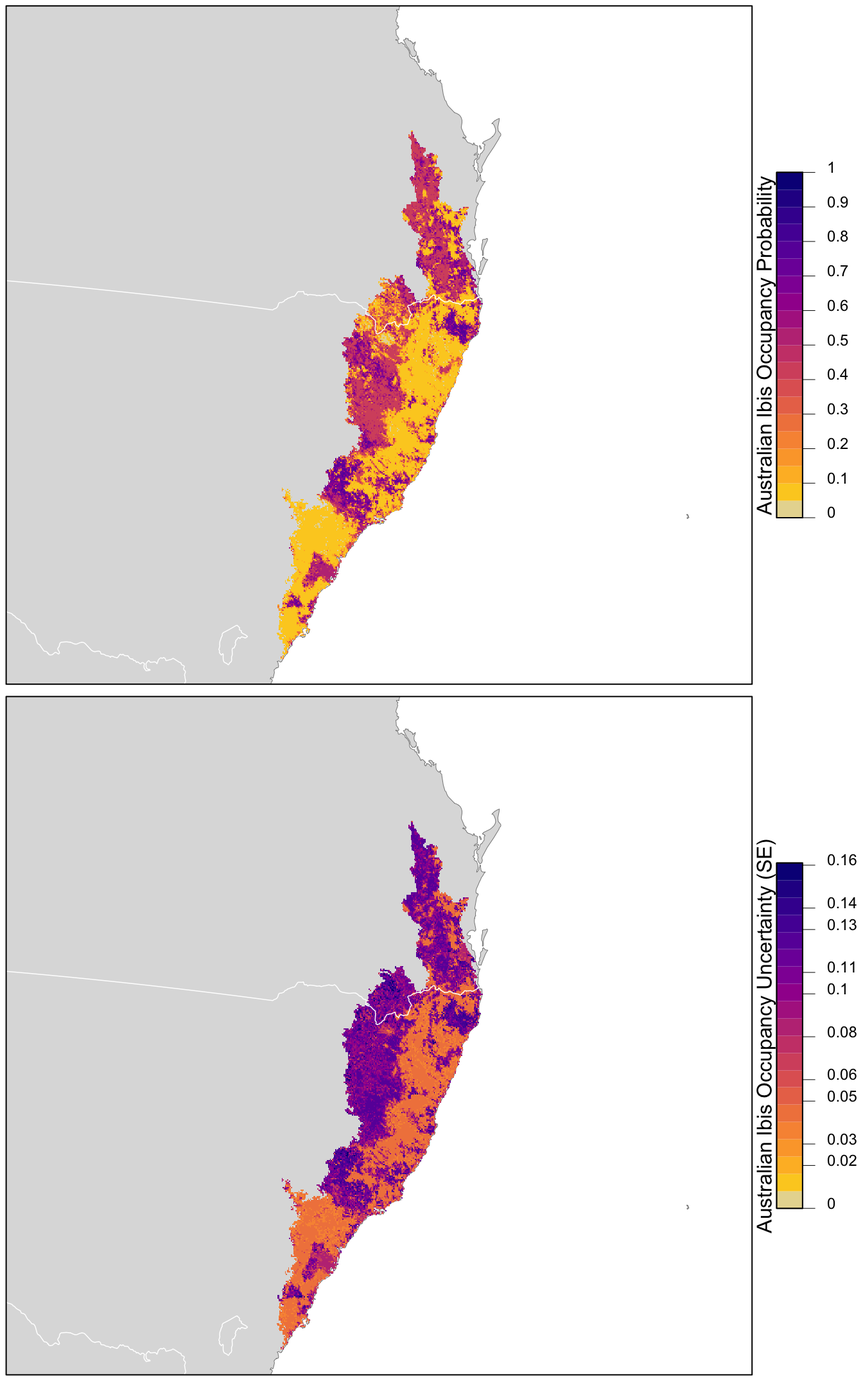
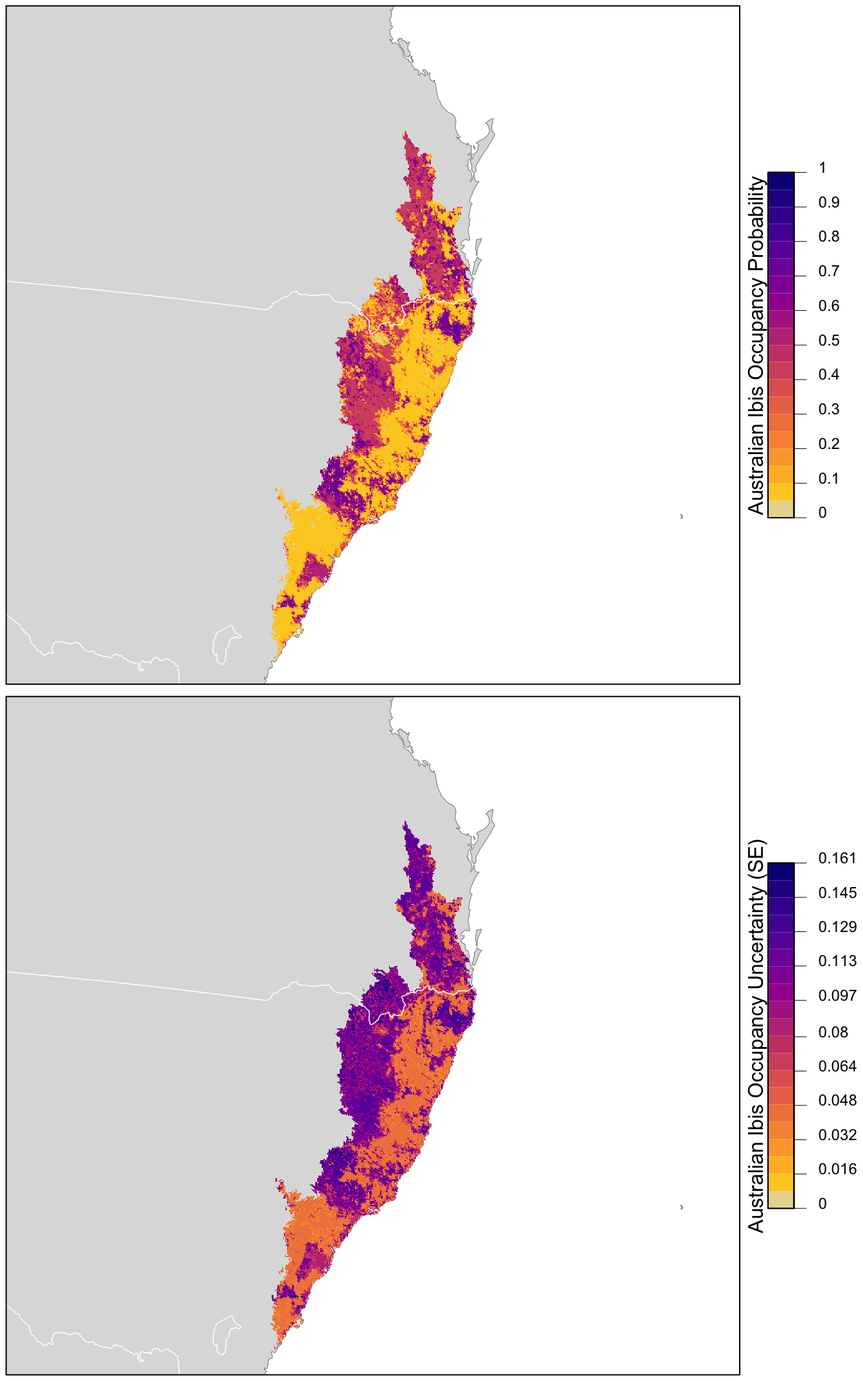
cleaning up maps

diff --git a/docs/abundance.html b/docs/abundance.html
@@ -24,7 +24,7 @@
 <meta name="author" content="Matthew Strimas-Mackey, Alison Johnston, Wesley M. Hochachka, Viviana Ruiz-Gutierrez, Orin J. Robinson, Eliot T. Miller, Tom Auer, Steve Kelling, Daniel Fink" />
 
 
-<meta name="date" content="2019-11-13" />
+<meta name="date" content="2019-11-14" />
 
   <meta name="viewport" content="width=device-width, initial-scale=1" />
   <meta name="apple-mobile-web-app-capable" content="yes" />
@@ -677,63 +677,64 @@ Exercise
 <a class="sourceLine" id="cb123-8" data-line-number="8"><span class="cf">for</span> (nm <span class="cf">in</span> <span class="kw">names</span>(r_pred)) {</a>
 <a class="sourceLine" id="cb123-9" data-line-number="9">  r_plot &lt;-<span class="st"> </span>r_pred_proj[[nm]]</a>
 <a class="sourceLine" id="cb123-10" data-line-number="10">  </a>
-<a class="sourceLine" id="cb123-11" data-line-number="11">  <span class="kw">par</span>(<span class="dt">mar =</span> <span class="kw">c</span>(<span class="fl">0.25</span>, <span class="fl">0.25</span>, <span class="fl">0.25</span>, <span class="fl">4.5</span>))</a>
+<a class="sourceLine" id="cb123-11" data-line-number="11">  <span class="kw">par</span>(<span class="dt">mar =</span> <span class="kw">c</span>(<span class="fl">0.25</span>, <span class="fl">0.25</span>, <span class="fl">0.25</span>, <span class="dv">5</span>))</a>
 <a class="sourceLine" id="cb123-12" data-line-number="12">  <span class="co"># set up plot area</span></a>
 <a class="sourceLine" id="cb123-13" data-line-number="13">  <span class="kw">plot</span>(cmz, <span class="dt">col =</span> <span class="ot">NA</span>, <span class="dt">border =</span> <span class="ot">NA</span>)</a>
 <a class="sourceLine" id="cb123-14" data-line-number="14">  <span class="kw">plot</span>(ne_land, <span class="dt">col =</span> <span class="st">&quot;#dddddd&quot;</span>, <span class="dt">border =</span> <span class="st">&quot;#888888&quot;</span>, <span class="dt">lwd =</span> <span class="fl">0.5</span>, <span class="dt">add =</span> <span class="ot">TRUE</span>)</a>
-<a class="sourceLine" id="cb123-15" data-line-number="15">  </a>
-<a class="sourceLine" id="cb123-16" data-line-number="16">  <span class="co"># modified plasma palette</span></a>
-<a class="sourceLine" id="cb123-17" data-line-number="17">  plasma_rev &lt;-<span class="st"> </span><span class="kw">rev</span>(<span class="kw">plasma</span>(<span class="dv">25</span>, <span class="dt">end =</span> <span class="fl">0.9</span>))</a>
-<a class="sourceLine" id="cb123-18" data-line-number="18">  gray_int &lt;-<span class="st"> </span><span class="kw">colorRampPalette</span>(<span class="kw">c</span>(<span class="st">&quot;#dddddd&quot;</span>, plasma_rev[<span class="dv">1</span>]))</a>
-<a class="sourceLine" id="cb123-19" data-line-number="19">  pal &lt;-<span class="st"> </span><span class="kw">c</span>(<span class="kw">gray_int</span>(<span class="dv">4</span>)[<span class="dv">2</span>], plasma_rev)</a>
-<a class="sourceLine" id="cb123-20" data-line-number="20">  </a>
-<a class="sourceLine" id="cb123-21" data-line-number="21">  <span class="co"># abundance vs. se</span></a>
-<a class="sourceLine" id="cb123-22" data-line-number="22">  <span class="cf">if</span> (nm <span class="op">==</span><span class="st"> &quot;abd&quot;</span>) {</a>
-<a class="sourceLine" id="cb123-23" data-line-number="23">    title &lt;-<span class="st"> &quot;Australian Ibis Relative Abundance&quot;</span></a>
-<a class="sourceLine" id="cb123-24" data-line-number="24">    <span class="co"># set very low values to zero</span></a>
-<a class="sourceLine" id="cb123-25" data-line-number="25">    r_plot[r_plot <span class="op">&lt;=</span><span class="st"> </span>zero_threshold] &lt;-<span class="st"> </span><span class="ot">NA</span></a>
-<a class="sourceLine" id="cb123-26" data-line-number="26">    <span class="co"># log transform</span></a>
-<a class="sourceLine" id="cb123-27" data-line-number="27">    r_plot &lt;-<span class="st"> </span><span class="kw">log10</span>(r_plot)</a>
-<a class="sourceLine" id="cb123-28" data-line-number="28">    <span class="co"># breaks and legend</span></a>
-<a class="sourceLine" id="cb123-29" data-line-number="29">    mx &lt;-<span class="st"> </span><span class="kw">ceiling</span>(<span class="dv">100</span> <span class="op">*</span><span class="st"> </span><span class="kw">cellStats</span>(r_plot, max)) <span class="op">/</span><span class="st"> </span><span class="dv">100</span></a>
-<a class="sourceLine" id="cb123-30" data-line-number="30">    mn &lt;-<span class="st"> </span><span class="kw">floor</span>(<span class="dv">100</span> <span class="op">*</span><span class="st"> </span><span class="kw">cellStats</span>(r_plot, min)) <span class="op">/</span><span class="st"> </span><span class="dv">100</span></a>
-<a class="sourceLine" id="cb123-31" data-line-number="31">    brks &lt;-<span class="st"> </span><span class="kw">seq</span>(mn, mx, <span class="dt">length.out =</span> <span class="kw">length</span>(pal) <span class="op">+</span><span class="st"> </span><span class="dv">1</span>)</a>
-<a class="sourceLine" id="cb123-32" data-line-number="32">    lbl_brks &lt;-<span class="st"> </span><span class="kw">sort</span>(<span class="kw">c</span>(<span class="op">-</span><span class="dv">2</span><span class="op">:</span><span class="dv">2</span>, mn, mx))</a>
-<a class="sourceLine" id="cb123-33" data-line-number="33">    lbls &lt;-<span class="st"> </span><span class="kw">round</span>(<span class="dv">10</span><span class="op">^</span>lbl_brks, <span class="dv">2</span>)</a>
-<a class="sourceLine" id="cb123-34" data-line-number="34">  } <span class="cf">else</span> {</a>
-<a class="sourceLine" id="cb123-35" data-line-number="35">    title &lt;-<span class="st"> &quot;Australian Ibis Abundance Uncertainty (SE)&quot;</span></a>
-<a class="sourceLine" id="cb123-36" data-line-number="36">    <span class="co"># breaks and legend</span></a>
-<a class="sourceLine" id="cb123-37" data-line-number="37">    mx &lt;-<span class="st"> </span><span class="kw">ceiling</span>(<span class="dv">1000</span> <span class="op">*</span><span class="st"> </span><span class="kw">cellStats</span>(r_plot, max)) <span class="op">/</span><span class="st"> </span><span class="dv">1000</span></a>
-<a class="sourceLine" id="cb123-38" data-line-number="38">    mn &lt;-<span class="st"> </span><span class="kw">floor</span>(<span class="dv">1000</span> <span class="op">*</span><span class="st"> </span><span class="kw">cellStats</span>(r_plot, min)) <span class="op">/</span><span class="st"> </span><span class="dv">1000</span></a>
-<a class="sourceLine" id="cb123-39" data-line-number="39">    brks &lt;-<span class="st"> </span><span class="kw">seq</span>(mn, mx, <span class="dt">length.out =</span> <span class="kw">length</span>(pal) <span class="op">+</span><span class="st"> </span><span class="dv">1</span>)</a>
-<a class="sourceLine" id="cb123-40" data-line-number="40">    lbl_brks &lt;-<span class="st"> </span><span class="kw">seq</span>(mn, mx, <span class="dt">length.out =</span> <span class="dv">5</span>)</a>
-<a class="sourceLine" id="cb123-41" data-line-number="41">    lbls &lt;-<span class="st"> </span><span class="kw">round</span>(lbl_brks, <span class="dv">2</span>)</a>
-<a class="sourceLine" id="cb123-42" data-line-number="42">  }</a>
-<a class="sourceLine" id="cb123-43" data-line-number="43">  </a>
-<a class="sourceLine" id="cb123-44" data-line-number="44">  <span class="co"># abundance</span></a>
-<a class="sourceLine" id="cb123-45" data-line-number="45">  <span class="kw">plot</span>(r_plot, </a>
-<a class="sourceLine" id="cb123-46" data-line-number="46">       <span class="dt">col =</span> pal, <span class="dt">breaks =</span> brks, </a>
-<a class="sourceLine" id="cb123-47" data-line-number="47">       <span class="dt">maxpixels =</span> <span class="kw">ncell</span>(r_plot),</a>
-<a class="sourceLine" id="cb123-48" data-line-number="48">       <span class="dt">legend =</span> <span class="ot">FALSE</span>, <span class="dt">add =</span> <span class="ot">TRUE</span>)</a>
-<a class="sourceLine" id="cb123-49" data-line-number="49">  </a>
-<a class="sourceLine" id="cb123-50" data-line-number="50">  <span class="co"># borders</span></a>
-<a class="sourceLine" id="cb123-51" data-line-number="51">  <span class="kw">plot</span>(ne_state_lines, <span class="dt">col =</span> <span class="st">&quot;#ffffff&quot;</span>, <span class="dt">lwd =</span> <span class="fl">0.75</span>, <span class="dt">add =</span> <span class="ot">TRUE</span>)</a>
-<a class="sourceLine" id="cb123-52" data-line-number="52">  <span class="kw">box</span>()</a>
-<a class="sourceLine" id="cb123-53" data-line-number="53">  </a>
-<a class="sourceLine" id="cb123-54" data-line-number="54">  <span class="co"># legend</span></a>
-<a class="sourceLine" id="cb123-55" data-line-number="55">  <span class="kw">par</span>(<span class="dt">new =</span> <span class="ot">TRUE</span>, <span class="dt">mar =</span> <span class="kw">c</span>(<span class="dv">0</span>, <span class="dv">0</span>, <span class="dv">0</span>, <span class="dv">0</span>))</a>
-<a class="sourceLine" id="cb123-56" data-line-number="56">  <span class="kw">image.plot</span>(<span class="dt">zlim =</span> <span class="kw">range</span>(brks), <span class="dt">legend.only =</span> <span class="ot">TRUE</span>, <span class="dt">col =</span> pal,</a>
-<a class="sourceLine" id="cb123-57" data-line-number="57">             <span class="dt">smallplot =</span> <span class="kw">c</span>(<span class="fl">0.90</span>, <span class="fl">0.93</span>, <span class="fl">0.25</span>, <span class="fl">0.75</span>),</a>
-<a class="sourceLine" id="cb123-58" data-line-number="58">             <span class="dt">horizontal =</span> <span class="ot">FALSE</span>,</a>
-<a class="sourceLine" id="cb123-59" data-line-number="59">             <span class="dt">axis.args =</span> <span class="kw">list</span>(<span class="dt">at =</span> lbl_brks, </a>
-<a class="sourceLine" id="cb123-60" data-line-number="60">                              <span class="dt">labels =</span> lbls,</a>
-<a class="sourceLine" id="cb123-61" data-line-number="61">                              <span class="dt">fg =</span> <span class="st">&quot;black&quot;</span>, <span class="dt">col.axis =</span> <span class="st">&quot;black&quot;</span>,</a>
-<a class="sourceLine" id="cb123-62" data-line-number="62">                              <span class="dt">cex.axis =</span> <span class="fl">0.75</span>, <span class="dt">lwd.ticks =</span> <span class="fl">0.5</span>,</a>
-<a class="sourceLine" id="cb123-63" data-line-number="63">                              <span class="dt">padj =</span> <span class="dv">0</span>),</a>
-<a class="sourceLine" id="cb123-64" data-line-number="64">             <span class="dt">legend.args =</span> <span class="kw">list</span>(<span class="dt">text =</span> title,</a>
-<a class="sourceLine" id="cb123-65" data-line-number="65">                                <span class="dt">side =</span> <span class="dv">2</span>, <span class="dt">col =</span> <span class="st">&quot;black&quot;</span>,</a>
-<a class="sourceLine" id="cb123-66" data-line-number="66">                                <span class="dt">cex =</span> <span class="dv">1</span>, <span class="dt">line =</span> <span class="dv">0</span>))</a>
-<a class="sourceLine" id="cb123-67" data-line-number="67">}</a></code></pre></div>
+<a class="sourceLine" id="cb123-15" data-line-number="15">  <span class="kw">plot</span>(cmz, <span class="dt">col =</span> <span class="st">&quot;#888888&quot;</span>, <span class="dt">border =</span> <span class="ot">NA</span>, <span class="dt">add =</span> <span class="ot">TRUE</span>)</a>
+<a class="sourceLine" id="cb123-16" data-line-number="16">  </a>
+<a class="sourceLine" id="cb123-17" data-line-number="17">  <span class="co"># modified plasma palette</span></a>
+<a class="sourceLine" id="cb123-18" data-line-number="18">  plasma_rev &lt;-<span class="st"> </span><span class="kw">rev</span>(<span class="kw">plasma</span>(<span class="dv">25</span>, <span class="dt">end =</span> <span class="fl">0.9</span>))</a>
+<a class="sourceLine" id="cb123-19" data-line-number="19">  gray_int &lt;-<span class="st"> </span><span class="kw">colorRampPalette</span>(<span class="kw">c</span>(<span class="st">&quot;#dddddd&quot;</span>, plasma_rev[<span class="dv">1</span>]))</a>
+<a class="sourceLine" id="cb123-20" data-line-number="20">  pal &lt;-<span class="st"> </span><span class="kw">c</span>(<span class="kw">gray_int</span>(<span class="dv">4</span>)[<span class="dv">2</span>], plasma_rev)</a>
+<a class="sourceLine" id="cb123-21" data-line-number="21">  </a>
+<a class="sourceLine" id="cb123-22" data-line-number="22">  <span class="co"># abundance vs. se</span></a>
+<a class="sourceLine" id="cb123-23" data-line-number="23">  <span class="cf">if</span> (nm <span class="op">==</span><span class="st"> &quot;abd&quot;</span>) {</a>
+<a class="sourceLine" id="cb123-24" data-line-number="24">    title &lt;-<span class="st"> &quot;Australian Ibis Relative Abundance&quot;</span></a>
+<a class="sourceLine" id="cb123-25" data-line-number="25">    <span class="co"># set very low values to zero</span></a>
+<a class="sourceLine" id="cb123-26" data-line-number="26">    r_plot[r_plot <span class="op">&lt;=</span><span class="st"> </span>zero_threshold] &lt;-<span class="st"> </span><span class="ot">NA</span></a>
+<a class="sourceLine" id="cb123-27" data-line-number="27">    <span class="co"># log transform</span></a>
+<a class="sourceLine" id="cb123-28" data-line-number="28">    r_plot &lt;-<span class="st"> </span><span class="kw">log10</span>(r_plot)</a>
+<a class="sourceLine" id="cb123-29" data-line-number="29">    <span class="co"># breaks and legend</span></a>
+<a class="sourceLine" id="cb123-30" data-line-number="30">    mx &lt;-<span class="st"> </span><span class="kw">cellStats</span>(r_plot, max)</a>
+<a class="sourceLine" id="cb123-31" data-line-number="31">    mn &lt;-<span class="st"> </span><span class="kw">cellStats</span>(r_plot, min)</a>
+<a class="sourceLine" id="cb123-32" data-line-number="32">    brks &lt;-<span class="st"> </span><span class="kw">seq</span>(mn, mx, <span class="dt">length.out =</span> <span class="kw">length</span>(pal) <span class="op">+</span><span class="st"> </span><span class="dv">1</span>)</a>
+<a class="sourceLine" id="cb123-33" data-line-number="33">    lbl_brks &lt;-<span class="st"> </span><span class="kw">c</span>(mn, (mn <span class="op">+</span><span class="st"> </span>mx) <span class="op">/</span><span class="st"> </span><span class="dv">2</span>, mx)</a>
+<a class="sourceLine" id="cb123-34" data-line-number="34">    lbls &lt;-<span class="st"> </span><span class="kw">round</span>(<span class="dv">10</span><span class="op">^</span>lbl_brks, <span class="dv">3</span>)</a>
+<a class="sourceLine" id="cb123-35" data-line-number="35">  } <span class="cf">else</span> {</a>
+<a class="sourceLine" id="cb123-36" data-line-number="36">    title &lt;-<span class="st"> &quot;Australian Ibis Abundance Uncertainty (SE)&quot;</span></a>
+<a class="sourceLine" id="cb123-37" data-line-number="37">    <span class="co"># breaks and legend</span></a>
+<a class="sourceLine" id="cb123-38" data-line-number="38">    mx &lt;-<span class="st"> </span><span class="kw">ceiling</span>(<span class="dv">1000</span> <span class="op">*</span><span class="st"> </span><span class="kw">cellStats</span>(r_plot, max)) <span class="op">/</span><span class="st"> </span><span class="dv">1000</span></a>
+<a class="sourceLine" id="cb123-39" data-line-number="39">    mn &lt;-<span class="st"> </span><span class="kw">floor</span>(<span class="dv">1000</span> <span class="op">*</span><span class="st"> </span><span class="kw">cellStats</span>(r_plot, min)) <span class="op">/</span><span class="st"> </span><span class="dv">1000</span></a>
+<a class="sourceLine" id="cb123-40" data-line-number="40">    brks &lt;-<span class="st"> </span><span class="kw">seq</span>(mn, mx, <span class="dt">length.out =</span> <span class="kw">length</span>(pal) <span class="op">+</span><span class="st"> </span><span class="dv">1</span>)</a>
+<a class="sourceLine" id="cb123-41" data-line-number="41">    lbl_brks &lt;-<span class="st"> </span><span class="kw">seq</span>(mn, mx, <span class="dt">length.out =</span> <span class="dv">5</span>)</a>
+<a class="sourceLine" id="cb123-42" data-line-number="42">    lbls &lt;-<span class="st"> </span><span class="kw">round</span>(lbl_brks, <span class="dv">2</span>)</a>
+<a class="sourceLine" id="cb123-43" data-line-number="43">  }</a>
+<a class="sourceLine" id="cb123-44" data-line-number="44">  </a>
+<a class="sourceLine" id="cb123-45" data-line-number="45">  <span class="co"># abundance</span></a>
+<a class="sourceLine" id="cb123-46" data-line-number="46">  <span class="kw">plot</span>(r_plot, </a>
+<a class="sourceLine" id="cb123-47" data-line-number="47">       <span class="dt">col =</span> pal, <span class="dt">breaks =</span> brks, </a>
+<a class="sourceLine" id="cb123-48" data-line-number="48">       <span class="dt">maxpixels =</span> <span class="kw">ncell</span>(r_plot),</a>
+<a class="sourceLine" id="cb123-49" data-line-number="49">       <span class="dt">legend =</span> <span class="ot">FALSE</span>, <span class="dt">add =</span> <span class="ot">TRUE</span>)</a>
+<a class="sourceLine" id="cb123-50" data-line-number="50">  </a>
+<a class="sourceLine" id="cb123-51" data-line-number="51">  <span class="co"># borders</span></a>
+<a class="sourceLine" id="cb123-52" data-line-number="52">  <span class="kw">plot</span>(ne_state_lines, <span class="dt">col =</span> <span class="st">&quot;#ffffff&quot;</span>, <span class="dt">lwd =</span> <span class="fl">0.75</span>, <span class="dt">add =</span> <span class="ot">TRUE</span>)</a>
+<a class="sourceLine" id="cb123-53" data-line-number="53">  <span class="kw">box</span>()</a>
+<a class="sourceLine" id="cb123-54" data-line-number="54">  </a>
+<a class="sourceLine" id="cb123-55" data-line-number="55">  <span class="co"># legend</span></a>
+<a class="sourceLine" id="cb123-56" data-line-number="56">  <span class="kw">par</span>(<span class="dt">new =</span> <span class="ot">TRUE</span>, <span class="dt">mar =</span> <span class="kw">c</span>(<span class="dv">0</span>, <span class="dv">0</span>, <span class="dv">0</span>, <span class="dv">0</span>))</a>
+<a class="sourceLine" id="cb123-57" data-line-number="57">  <span class="kw">image.plot</span>(<span class="dt">zlim =</span> <span class="kw">range</span>(brks), <span class="dt">legend.only =</span> <span class="ot">TRUE</span>, <span class="dt">col =</span> pal,</a>
+<a class="sourceLine" id="cb123-58" data-line-number="58">             <span class="dt">smallplot =</span> <span class="kw">c</span>(<span class="fl">0.89</span>, <span class="fl">0.92</span>, <span class="fl">0.25</span>, <span class="fl">0.75</span>),</a>
+<a class="sourceLine" id="cb123-59" data-line-number="59">             <span class="dt">horizontal =</span> <span class="ot">FALSE</span>,</a>
+<a class="sourceLine" id="cb123-60" data-line-number="60">             <span class="dt">axis.args =</span> <span class="kw">list</span>(<span class="dt">at =</span> lbl_brks, </a>
+<a class="sourceLine" id="cb123-61" data-line-number="61">                              <span class="dt">labels =</span> lbls,</a>
+<a class="sourceLine" id="cb123-62" data-line-number="62">                              <span class="dt">fg =</span> <span class="st">&quot;black&quot;</span>, <span class="dt">col.axis =</span> <span class="st">&quot;black&quot;</span>,</a>
+<a class="sourceLine" id="cb123-63" data-line-number="63">                              <span class="dt">cex.axis =</span> <span class="fl">0.75</span>, <span class="dt">lwd.ticks =</span> <span class="fl">0.5</span>,</a>
+<a class="sourceLine" id="cb123-64" data-line-number="64">                              <span class="dt">padj =</span> <span class="dv">0</span>),</a>
+<a class="sourceLine" id="cb123-65" data-line-number="65">             <span class="dt">legend.args =</span> <span class="kw">list</span>(<span class="dt">text =</span> title,</a>
+<a class="sourceLine" id="cb123-66" data-line-number="66">                                <span class="dt">side =</span> <span class="dv">2</span>, <span class="dt">col =</span> <span class="st">&quot;black&quot;</span>,</a>
+<a class="sourceLine" id="cb123-67" data-line-number="67">                                <span class="dt">cex =</span> <span class="dv">1</span>, <span class="dt">line =</span> <span class="dv">0</span>))</a>
+<a class="sourceLine" id="cb123-68" data-line-number="68">}</a></code></pre></div>
 <p><img src="ebp-workshop-au_files/figure-html/abundance-predict-map-1.png" width="\textwidth" style="display: block; margin: auto;" /></p>
 </div>
 <div id="abundance-exercises" class="section level2">

diff --git a/docs/occupancy.html b/docs/occupancy.html
@@ -24,7 +24,7 @@
 <meta name="author" content="Matthew Strimas-Mackey, Alison Johnston, Wesley M. Hochachka, Viviana Ruiz-Gutierrez, Orin J. Robinson, Eliot T. Miller, Tom Auer, Steve Kelling, Daniel Fink" />
 
 
-<meta name="date" content="2019-11-13" />
+<meta name="date" content="2019-11-14" />
 
   <meta name="viewport" content="width=device-width, initial-scale=1" />
   <meta name="apple-mobile-web-app-capable" content="yes" />
@@ -466,7 +466,7 @@ Checkpoint
 <a class="sourceLine" id="cb98-5" data-line-number="5"><span class="cf">for</span> (nm <span class="cf">in</span> <span class="kw">names</span>(r_pred)) {</a>
 <a class="sourceLine" id="cb98-6" data-line-number="6">  r_plot &lt;-<span class="st"> </span>r_pred_proj[[nm]]</a>
 <a class="sourceLine" id="cb98-7" data-line-number="7">  </a>
-<a class="sourceLine" id="cb98-8" data-line-number="8">  <span class="kw">par</span>(<span class="dt">mar =</span> <span class="kw">c</span>(<span class="fl">0.25</span>, <span class="fl">0.25</span>, <span class="fl">0.25</span>, <span class="fl">4.5</span>))</a>
+<a class="sourceLine" id="cb98-8" data-line-number="8">  <span class="kw">par</span>(<span class="dt">mar =</span> <span class="kw">c</span>(<span class="fl">0.25</span>, <span class="fl">0.25</span>, <span class="fl">0.25</span>, <span class="dv">5</span>))</a>
 <a class="sourceLine" id="cb98-9" data-line-number="9">  <span class="co"># set up plot area</span></a>
 <a class="sourceLine" id="cb98-10" data-line-number="10">  <span class="kw">plot</span>(cmz, <span class="dt">col =</span> <span class="ot">NA</span>, <span class="dt">border =</span> <span class="ot">NA</span>)</a>
 <a class="sourceLine" id="cb98-11" data-line-number="11">  <span class="kw">plot</span>(ne_land, <span class="dt">col =</span> <span class="st">&quot;#dddddd&quot;</span>, <span class="dt">border =</span> <span class="st">&quot;#888888&quot;</span>, <span class="dt">lwd =</span> <span class="fl">0.5</span>, <span class="dt">add =</span> <span class="ot">TRUE</span>)</a>
@@ -482,7 +482,7 @@ Checkpoint
 <a class="sourceLine" id="cb98-21" data-line-number="21">    mx &lt;-<span class="st"> </span><span class="kw">ceiling</span>(<span class="dv">1000</span> <span class="op">*</span><span class="st"> </span><span class="kw">cellStats</span>(r_plot, max)) <span class="op">/</span><span class="st"> </span><span class="dv">1000</span></a>
 <a class="sourceLine" id="cb98-22" data-line-number="22">    brks &lt;-<span class="st"> </span><span class="kw">seq</span>(<span class="dv">0</span>, mx, <span class="dt">length.out =</span> <span class="dv">21</span>)</a>
 <a class="sourceLine" id="cb98-23" data-line-number="23">    lbl_brks &lt;-<span class="st"> </span><span class="kw">seq</span>(<span class="dv">0</span>, mx, <span class="dt">length.out =</span> <span class="dv">11</span>) <span class="op">%&gt;%</span><span class="st"> </span></a>
-<a class="sourceLine" id="cb98-24" data-line-number="24"><span class="st">      </span><span class="kw">round</span>(<span class="dv">2</span>)</a>
+<a class="sourceLine" id="cb98-24" data-line-number="24"><span class="st">      </span><span class="kw">round</span>(<span class="dv">3</span>)</a>
 <a class="sourceLine" id="cb98-25" data-line-number="25">  }</a>
 <a class="sourceLine" id="cb98-26" data-line-number="26">  pal &lt;-<span class="st"> </span><span class="kw">abundance_palette</span>(<span class="kw">length</span>(brks) <span class="op">-</span><span class="st"> </span><span class="dv">1</span>)</a>
 <a class="sourceLine" id="cb98-27" data-line-number="27">  <span class="kw">plot</span>(r_plot, </a>
@@ -498,7 +498,7 @@ Checkpoint
 <a class="sourceLine" id="cb98-37" data-line-number="37">  <span class="kw">par</span>(<span class="dt">new =</span> <span class="ot">TRUE</span>, <span class="dt">mar =</span> <span class="kw">c</span>(<span class="dv">0</span>, <span class="dv">0</span>, <span class="dv">0</span>, <span class="dv">0</span>))</a>
 <a class="sourceLine" id="cb98-38" data-line-number="38">  <span class="kw">image.plot</span>(<span class="dt">zlim =</span> <span class="kw">range</span>(brks), <span class="dt">legend.only =</span> <span class="ot">TRUE</span>, </a>
 <a class="sourceLine" id="cb98-39" data-line-number="39">             <span class="dt">breaks =</span> brks, <span class="dt">col =</span> pal,</a>
-<a class="sourceLine" id="cb98-40" data-line-number="40">             <span class="dt">smallplot =</span> <span class="kw">c</span>(<span class="fl">0.90</span>, <span class="fl">0.93</span>, <span class="fl">0.25</span>, <span class="fl">0.75</span>),</a>
+<a class="sourceLine" id="cb98-40" data-line-number="40">             <span class="dt">smallplot =</span> <span class="kw">c</span>(<span class="fl">0.89</span>, <span class="fl">0.92</span>, <span class="fl">0.25</span>, <span class="fl">0.75</span>),</a>
 <a class="sourceLine" id="cb98-41" data-line-number="41">             <span class="dt">horizontal =</span> <span class="ot">FALSE</span>,</a>
 <a class="sourceLine" id="cb98-42" data-line-number="42">             <span class="dt">axis.args =</span> <span class="kw">list</span>(<span class="dt">at =</span> lbl_brks, <span class="dt">labels =</span> lbl_brks,</a>
 <a class="sourceLine" id="cb98-43" data-line-number="43">                              <span class="dt">fg =</span> <span class="st">&quot;black&quot;</span>, <span class="dt">col.axis =</span> <span class="st">&quot;black&quot;</span>,</a>

diff --git a/docs/index.html b/docs/index.html
@@ -24,7 +24,7 @@
 <meta name="author" content="Matthew Strimas-Mackey, Alison Johnston, Wesley M. Hochachka, Viviana Ruiz-Gutierrez, Orin J. Robinson, Eliot T. Miller, Tom Auer, Steve Kelling, Daniel Fink" />
 
 
-<meta name="date" content="2019-11-13" />
+<meta name="date" content="2019-11-14" />
 
   <meta name="viewport" content="width=device-width, initial-scale=1" />
   <meta name="apple-mobile-web-app-capable" content="yes" />
@@ -235,7 +235,7 @@ code span.wa { color: #60a0b0; font-weight: bold; font-style: italic; } /* Warni
 <div id="header">
 <h1 class="title">eBird Best Practices Workshop</h1>
 <p class="author"><em>Matthew Strimas-Mackey, Alison Johnston, Wesley M. Hochachka, Viviana Ruiz-Gutierrez, Orin J. Robinson, Eliot T. Miller, Tom Auer, Steve Kelling, Daniel Fink</em></p>
-<p class="date"><em>2019-11-13</em></p>
+<p class="date"><em>2019-11-14</em></p>
 </div>
 <div id="welcome" class="section level1 unnumbered">
 <h1>Welcome</h1>

diff --git a/docs/access.html b/docs/access.html
@@ -24,7 +24,7 @@
 <meta name="author" content="Matthew Strimas-Mackey, Alison Johnston, Wesley M. Hochachka, Viviana Ruiz-Gutierrez, Orin J. Robinson, Eliot T. Miller, Tom Auer, Steve Kelling, Daniel Fink" />
 
 
-<meta name="date" content="2019-11-13" />
+<meta name="date" content="2019-11-14" />
 
   <meta name="viewport" content="width=device-width, initial-scale=1" />
   <meta name="apple-mobile-web-app-capable" content="yes" />

diff --git a/docs/advanced.html b/docs/advanced.html
@@ -24,7 +24,7 @@
 <meta name="author" content="Matthew Strimas-Mackey, Alison Johnston, Wesley M. Hochachka, Viviana Ruiz-Gutierrez, Orin J. Robinson, Eliot T. Miller, Tom Auer, Steve Kelling, Daniel Fink" />
 
 
-<meta name="date" content="2019-11-13" />
+<meta name="date" content="2019-11-14" />
 
   <meta name="viewport" content="width=device-width, initial-scale=1" />
   <meta name="apple-mobile-web-app-capable" content="yes" />

diff --git a/docs/applications.html b/docs/applications.html
@@ -24,7 +24,7 @@
 <meta name="author" content="Matthew Strimas-Mackey, Alison Johnston, Wesley M. Hochachka, Viviana Ruiz-Gutierrez, Orin J. Robinson, Eliot T. Miller, Tom Auer, Steve Kelling, Daniel Fink" />
 
 
-<meta name="date" content="2019-11-13" />
+<meta name="date" content="2019-11-14" />
 
   <meta name="viewport" content="width=device-width, initial-scale=1" />
   <meta name="apple-mobile-web-app-capable" content="yes" />

diff --git a/docs/ebird-intro.html b/docs/ebird-intro.html
@@ -24,7 +24,7 @@
 <meta name="author" content="Matthew Strimas-Mackey, Alison Johnston, Wesley M. Hochachka, Viviana Ruiz-Gutierrez, Orin J. Robinson, Eliot T. Miller, Tom Auer, Steve Kelling, Daniel Fink" />
 
 
-<meta name="date" content="2019-11-13" />
+<meta name="date" content="2019-11-14" />
 
   <meta name="viewport" content="width=device-width, initial-scale=1" />
   <meta name="apple-mobile-web-app-capable" content="yes" />

diff --git a/docs/encounter.html b/docs/encounter.html
@@ -24,7 +24,7 @@
 <meta name="author" content="Matthew Strimas-Mackey, Alison Johnston, Wesley M. Hochachka, Viviana Ruiz-Gutierrez, Orin J. Robinson, Eliot T. Miller, Tom Auer, Steve Kelling, Daniel Fink" />
 
 
-<meta name="date" content="2019-11-13" />
+<meta name="date" content="2019-11-14" />
 
   <meta name="viewport" content="width=device-width, initial-scale=1" />
   <meta name="apple-mobile-web-app-capable" content="yes" />

diff --git a/docs/filter.html b/docs/filter.html
@@ -24,7 +24,7 @@
 <meta name="author" content="Matthew Strimas-Mackey, Alison Johnston, Wesley M. Hochachka, Viviana Ruiz-Gutierrez, Orin J. Robinson, Eliot T. Miller, Tom Auer, Steve Kelling, Daniel Fink" />
 
 
-<meta name="date" content="2019-11-13" />
+<meta name="date" content="2019-11-14" />
 
   <meta name="viewport" content="width=device-width, initial-scale=1" />
   <meta name="apple-mobile-web-app-capable" content="yes" />

diff --git a/docs/import.html b/docs/import.html
@@ -24,7 +24,7 @@
 <meta name="author" content="Matthew Strimas-Mackey, Alison Johnston, Wesley M. Hochachka, Viviana Ruiz-Gutierrez, Orin J. Robinson, Eliot T. Miller, Tom Auer, Steve Kelling, Daniel Fink" />
 
 
-<meta name="date" content="2019-11-13" />
+<meta name="date" content="2019-11-14" />
 
   <meta name="viewport" content="width=device-width, initial-scale=1" />
   <meta name="apple-mobile-web-app-capable" content="yes" />

diff --git a/docs/intro.html b/docs/intro.html
@@ -24,7 +24,7 @@
 <meta name="author" content="Matthew Strimas-Mackey, Alison Johnston, Wesley M. Hochachka, Viviana Ruiz-Gutierrez, Orin J. Robinson, Eliot T. Miller, Tom Auer, Steve Kelling, Daniel Fink" />
 
 
-<meta name="date" content="2019-11-13" />
+<meta name="date" content="2019-11-14" />
 
   <meta name="viewport" content="width=device-width, initial-scale=1" />
   <meta name="apple-mobile-web-app-capable" content="yes" />

diff --git a/docs/model-intro.html b/docs/model-intro.html
@@ -24,7 +24,7 @@
 <meta name="author" content="Matthew Strimas-Mackey, Alison Johnston, Wesley M. Hochachka, Viviana Ruiz-Gutierrez, Orin J. Robinson, Eliot T. Miller, Tom Auer, Steve Kelling, Daniel Fink" />
 
 
-<meta name="date" content="2019-11-13" />
+<meta name="date" content="2019-11-14" />
 
   <meta name="viewport" content="width=device-width, initial-scale=1" />
   <meta name="apple-mobile-web-app-capable" content="yes" />
